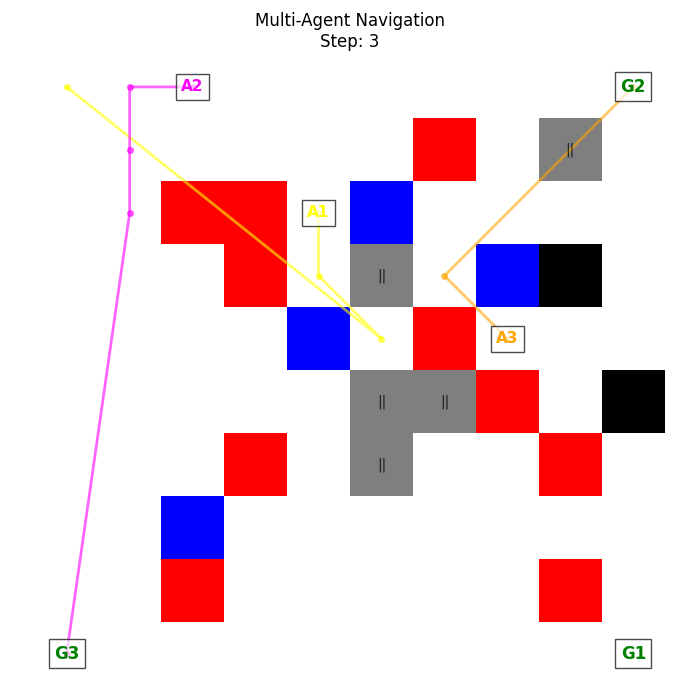
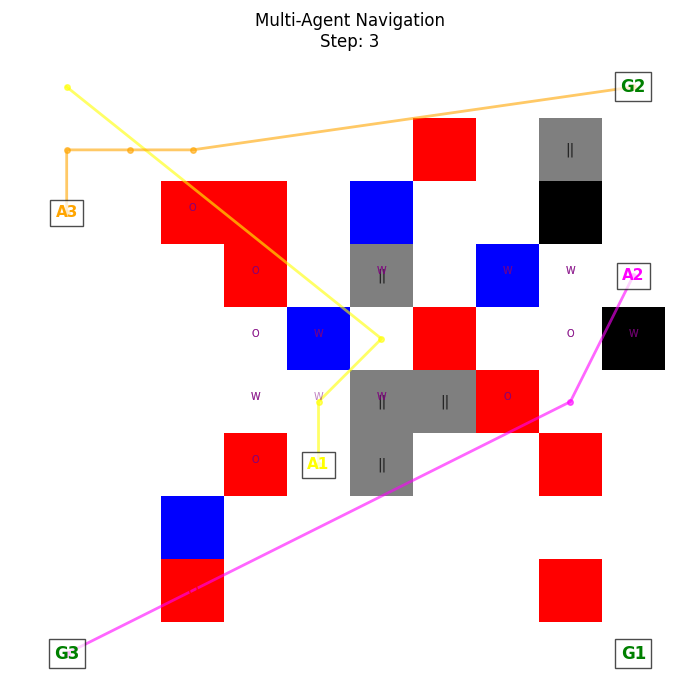
updated for multi-agent

diff --git a/illuminastick_sim_parameterized.py b/illuminastick_sim_parameterized.py
@@ -2,13 +2,22 @@ import random
 import time
 import os
 import logging
-import matplotlib.pyplot as plt
-import numpy as np
 import json
 import argparse
+import numpy as np
+from collections import defaultdict
+
+try:
+    import tkinter as tk
+    from tkinter import messagebox
+    TK_AVAILABLE = True
+except ImportError:
+    TK_AVAILABLE = False
+
+import matplotlib.pyplot as plt
 import imageio.v2 as imageio
 
-# ========= HELPERS FOR PATHS =========
+# ========== PATH HELPERS ==========
 def find_file(filename, search_dirs=[".", "config", "data"]):
     for d in search_dirs:
         candidate = os.path.join(d, filename)
@@ -16,11 +25,9 @@ def find_file(filename, search_dirs=[".", "config", "data"]):
             return candidate
     return filename
 
-# ====== BLE LOCALIZATION (Simulated Real Update) ======
+# ========== BLE LOCALIZATION ==========
 def get_ble_location(agent_id, env, step, override_every=12):
-    """Random BLE fix: Every N steps, returns a random (legal) cell."""
     if step % override_every == 0:
-        # Only choose empty non-obstacle, non-wall cell
         empty_cells = [
             (x, y)
             for x in range(env.size)
@@ -33,7 +40,7 @@ def get_ble_location(agent_id, env, step, override_every=12):
             return pos
     return None
 
-# ====== CONFIG/ARGUMENTS ======
+# ========== CONFIG ==========
 def load_config():
     parser = argparse.ArgumentParser(description="Multi-Agent Navigation Simulator")
     parser.add_argument('--config', type=str, default="config/config.json", help="JSON config file")
@@ -50,6 +57,7 @@ def load_config():
     parser.add_argument('--share_every', type=int, default=1, help="Agents share knowledge every N steps")
     parser.add_argument('--init_states', type=str, default="data/initial_states.json", help="Initial agent states JSON (optional)")
     parser.add_argument('--belief_view', action='store_true', help="Show explicit agent belief maps")
+    parser.add_argument('--gui', action='store_true', help="Use Tkinter GUI if available")
     args = parser.parse_args()
     config_path = find_file(args.config)
     if os.path.exists(config_path):
@@ -61,7 +69,7 @@ def load_config():
 
 args = load_config()
 
-# ====== ENVIRONMENT ======
+# ========== ENVIRONMENT ==========
 class Environment:
     def __init__(self, size, obstacles, wet_floors, walls=None, moving_obstacles=None):
         self.size = int(size)
@@ -69,32 +77,22 @@ class Environment:
         self.wet_floors = set(map(tuple, wet_floors))
         self.walls = set(map(tuple, walls)) if walls else set()
         self.moving_obstacles = set(map(tuple, moving_obstacles)) if moving_obstacles else set()
-
-    def is_obstacle(self, pos):
-        return pos in self.obstacles or pos in self.moving_obstacles
-
-    def is_wet(self, pos):
-        return pos in self.wet_floors
-
-    def is_wall(self, pos):
-        return pos in self.walls
-
+    def is_obstacle(self, pos): return pos in self.obstacles or pos in self.moving_obstacles
+    def is_wet(self, pos): return pos in self.wet_floors
+    def is_wall(self, pos): return pos in self.walls
     def is_within(self, pos):
         x, y = pos
         return 0 <= x < self.size and 0 <= y < self.size
-
     def update_moving_obstacles(self):
         updated = set()
         for pos in self.moving_obstacles:
             choices = [(pos[0]+dx, pos[1]+dy) for dx,dy in [(-1,0),(1,0),(0,-1),(0,1)]]
             valid = [c for c in choices if self.is_within(c) and c not in self.obstacles and c not in self.wet_floors and c not in self.walls]
-            if valid:
-                updated.add(random.choice(valid))
-            else:
-                updated.add(pos)
+            if valid: updated.add(random.choice(valid))
+            else: updated.add(pos)
         self.moving_obstacles = updated
 
-# ====== KNOWLEDGE BASE ======
+# ========== KNOWLEDGE BASE ==========
 class KnowledgeBase:
     def __init__(self, start, goal):
         self.data = {
@@ -105,7 +103,7 @@ class KnowledgeBase:
             'walls': set(),
             'uncertainty': {},
             'last_update': 0,
-            'status_flags': {'uncertainty': False, 'sensor_error': False},
+            'status_flags': {'uncertainty': False, 'sensor_error': False, 'stuck': False},
             'belief_map': {}  # For ontological/logic inference
         }
     def update(self, observation):
@@ -120,25 +118,30 @@ class KnowledgeBase:
     def flag_uncertainty(self, msg):
         self.data['status_flags']['uncertainty'] = True
         self.data['uncertainty'][time.time()] = msg
-        # Emergency alert stub/log
         with open("logs/emergency_alerts.log", "a") as f:
             f.write(f"[ALERT {time.time()}] {msg}\n")
     def clear_flags(self):
-        self.data['status_flags'] = {'uncertainty': False, 'sensor_error': False}
+        self.data['status_flags'] = {'uncertainty': False, 'sensor_error': False, 'stuck': False}
 
-# ====== SENSOR MODEL with ADAPTATION/LEARNING ======
+# ========== SENSOR MODEL WITH FAILURES ==========
 class Sensors:
-    def __init__(self, env, kb, noise=0.18):
+    def __init__(self, env, kb, noise=0.18, sensor_fail_prob=0.07):
         self.env = env
         self.kb = kb
         self.noise = noise
         self.step_counter = 0
+        self.sensor_fail_prob = sensor_fail_prob
     def sense(self, pos):
         self.step_counter += 1
         # Sensor adapts/learns as steps increase (becomes more reliable)
         if self.step_counter % 14 == 0 and self.noise > 0.06:
             self.noise -= 0.03
             print(f"[Sensor Adaptation] Sensor noise decreased to {self.noise:.2f}")
+        # Failure: No reading this step
+        if random.random() < self.sensor_fail_prob:
+            print(f"[Sensor Failure] Agent sensor failed at {pos}!")
+            self.kb.data['status_flags']['sensor_error'] = True
+            return {'obstacles': set(), 'wet_floors': set(), 'walls': set(), 'user_position': pos}
         observations = {'obstacles': set(), 'wet_floors': set(), 'walls': set(), 'user_position': pos}
         for dx in [-1,0,1]:
             for dy in [-1,0,1]:
@@ -161,10 +164,11 @@ class Sensors:
                             observations['walls'].add(neighbor)
         return observations
     def adapt_sensor(self, new_noise):
-        self.noise = new_noise  # Simulate learning/adaptation
+        self.noise = new_noise
 
-# ====== AGENT COMMUNICATION ======
+# ========== AGENT COMMUNICATION & BASIC COORDINATION ==========
 def communicate(kb_list):
+    # share hazards and status, simple help request if stuck
     for i, kba in enumerate(kb_list):
         for j, kbb in enumerate(kb_list):
             if i != j:
@@ -172,15 +176,19 @@ def communicate(kb_list):
                 kbb.data['wet_floors'].update(kba.data['wet_floors'])
                 kbb.data['walls'].update(kba.data['walls'])
                 kbb.data['belief_map'].update(kba.data.get('belief_map', {}))
+            # Help coordination: if an agent is stuck, others "notice"
+            if kba.data['status_flags'].get('stuck'):
+                kbb.data['status_flags']['help_neighbor'] = True
 
-# ====== RL AGENT TEMPLATE ======
+# ========== RL AGENT TEMPLATE ==========
 class RLAgent:
     def __init__(self, agent_id):
         self.agent_id = agent_id
     def choose_action(self, kb, available_moves, goal):
+        # You can implement Q-table or DQN here
         return random.choice(available_moves) if available_moves else None
 
-# ====== PLANNER (A*) ======
+# ========== PLANNER (A*) ==========
 class Planner:
     def __init__(self, kb, env):
         self.kb = kb
@@ -200,8 +208,7 @@ class Planner:
             if node == goal:
                 self.current_plan = path + [node]
                 return
-            if node in visited:
-                continue
+            if node in visited: continue
             visited.add(node)
             for dx, dy in [(-1,0),(1,0),(0,-1),(0,1)]:
                 neighbor = (node[0]+dx, node[1]+dy)
@@ -239,6 +246,33 @@ def choose_agent_color(i):
     colors = ['yellow', 'magenta', 'orange', 'cyan', 'lime', 'pink']
     return colors[i % len(colors)]
 
+# ========== PERFORMANCE METRICS ==========
+def init_metrics(num_agents):
+    return {
+        'steps_taken': [0 for _ in range(num_agents)],
+        'hazard_hits': [0 for _ in range(num_agents)],
+        'sensor_failures': [0 for _ in range(num_agents)],
+        'actuator_failures': [0 for _ in range(num_agents)],
+        'stuck_events': [0 for _ in range(num_agents)],
+        'ontology_agreement_steps': 0
+    }
+
+def print_metrics(metrics, num_agents):
+    print("\n--- Performance Metrics ---")
+    for i in range(num_agents):
+        print(f"Agent {i+1}: steps={metrics['steps_taken'][i]}, hazards_hit={metrics['hazard_hits'][i]}, sensor_fails={metrics['sensor_failures'][i]}, actuator_fails={metrics['actuator_failures'][i]}, stuck={metrics['stuck_events'][i]}")
+    print(f"Total steps with ontology agreement: {metrics['ontology_agreement_steps']}")
+
+# ========== ONTOLOGY-BASED INFERENCE ==========
+def run_ontology_inference(kbs, step, metrics):
+    all_beliefs = [set(kb.data['belief_map'].keys()) for kb in kbs]
+    if not all_beliefs: return
+    intersection = set.intersection(*all_beliefs)
+    if intersection:
+        metrics['ontology_agreement_steps'] += 1
+        print(f"\n[Ontology] Step {step}: All agents believe these cells are hazardous: {sorted(intersection)}\n")
+
+# ========== DRAW GRID (Matplotlib fallback) ==========
 def draw_grid(agent_positions, agent_goals, obstacles, wet_floors, walls, moving_obstacles, size, step, path_histories=None, save_dir=None, kb_list=None, show_belief=False):
     grid = np.ones((size, size, 3), dtype=float)
     for (x, y) in obstacles: grid[x, y] = [1, 0, 0]
@@ -281,17 +315,55 @@ def draw_grid(agent_positions, agent_goals, obstacles, wet_floors, walls, moving
     if save_dir is not None:
         plt.savefig(f"{save_dir}/frame_{step:03d}.png")
 
-# ====== ONTOLOGY-BASED INFERENCE (Simple Logic) ======
-def run_ontology_inference(kbs, step):
-    # Example: Find cells all agents believe are hazardous (any hazard type)
-    all_beliefs = [set(kb.data['belief_map'].keys()) for kb in kbs]
-    if not all_beliefs:
-        return
-    # Cells believed hazardous by all agents
-    intersection = set.intersection(*all_beliefs)
-    if intersection:
-        print(f"\n[Ontology] Step {step}: All agents believe these cells are hazardous: {sorted(intersection)}\n")
+# ========== OPTIONAL TKINTER GUI ==========
+class IlluminastickGUI:
+    def __init__(self, env, agent_positions, agent_goals, path_histories, size):
+        self.env = env
+        self.size = size
+        self.agent_positions = agent_positions
+        self.agent_goals = agent_goals
+        self.path_histories = path_histories
+        self.root = tk.Tk()
+        self.root.title("Illuminastick Simulator")
+        self.cell = 40
+        self.canvas = tk.Canvas(self.root, width=size*self.cell, height=size*self.cell)
+        self.canvas.pack()
+        self._draw_grid()
+        self.running = True
+        self.root.after(100, self._loop)
+        self.root.mainloop()
+    def _draw_grid(self):
+        self.canvas.delete("all")
+        # Draw cells
+        for i in range(self.size):
+            for j in range(self.size):
+                x0 = j*self.cell
+                y0 = i*self.cell
+                x1 = x0 + self.cell
+                y1 = y0 + self.cell
+                fill = "white"
+                if (i, j) in self.env.obstacles: fill = "red"
+                elif (i, j) in self.env.wet_floors: fill = "blue"
+                elif (i, j) in self.env.walls: fill = "gray"
+                elif (i, j) in self.env.moving_obstacles: fill = "black"
+                self.canvas.create_rectangle(x0, y0, x1, y1, fill=fill)
+        # Draw agents and goals
+        for idx, pos in enumerate(self.agent_positions):
+            x = pos[1]*self.cell + self.cell//2
+            y = pos[0]*self.cell + self.cell//2
+            self.canvas.create_oval(x-10, y-10, x+10, y+10, fill=choose_agent_color(idx))
+            self.canvas.create_text(x, y, text=f"A{idx+1}", fill="black")
+        for idx, pos in enumerate(self.agent_goals):
+            x = pos[1]*self.cell + self.cell//2
+            y = pos[0]*self.cell + self.cell//2
+            self.canvas.create_text(x, y, text=f"G{idx+1}", fill="green")
 
+    def _loop(self):
+        if self.running:
+            self._draw_grid()
+            self.root.after(200, self._loop)
+
+# ========== MAIN SIMULATION ==========
 def main():
     logs_dir = "logs"
     frames_dir = "frames"
@@ -388,11 +460,21 @@ def main():
             policies.append(None)
         path_histories.append([agent_starts[i]])
 
+    metrics = init_metrics(num_agents)
+
+    # Choose visualization method
+    use_gui = getattr(args, "gui", False) and TK_AVAILABLE
+    if use_gui:
+        IlluminastickGUI(env, [kb.data['user_position'] for kb in kbs], agent_goals, path_histories, int(args.size))
+        # If GUI runs, exit after mainloop
+        return
+
     plt.ion()
     plt.figure(figsize=(7,7))
     print("\n--- Multi-Agent Navigation Start ---\n")
     done = [False for _ in range(num_agents)]
     steps = 0
+    action_fail_prob = 0.06  # 6% actuator failure
     while not all(done) and steps < int(args.max_steps):
         env.update_moving_obstacles()
         draw_grid(
@@ -409,11 +491,10 @@ def main():
             kb_list=[kb.data for kb in kbs],
             show_belief=args.belief_view
         )
-        run_ontology_inference(kbs, steps)  # Ontology & Inference step
+        run_ontology_inference(kbs, steps, metrics)  # Ontology & Inference step
 
         for i, kb in enumerate(kbs):
             kb_histories[i].append({"step": steps, "kb": serialize_kb(kb.data)})
-
         if int(args.share_every) > 0 and steps % int(args.share_every) == 0:
             communicate(kbs)
 
@@ -438,17 +519,32 @@ def main():
                 next_pos = policies[i].choose_action(kbs[i].data, available_moves, goal)
             else:
                 next_pos = planner.next_action(current=pos)
+
+            # Actuator failure
+            if random.random() < action_fail_prob:
+                print(f"[Actuator Failure] Agent {i+1} failed to move (stuck at {pos})!")
+                kbs[i].data['status_flags']['stuck'] = True
+                metrics['actuator_failures'][i] += 1
+                metrics['stuck_events'][i] += 1
+                continue
+            kbs[i].data['status_flags']['stuck'] = False
+
             if next_pos is None or next_pos == pos:
                 done[i] = True
                 continue
+
             obs = sensors_list[i].sense(next_pos)
             kbs[i].update(obs)
+            if kbs[i].data['status_flags'].get('sensor_error', False):
+                metrics['sensor_failures'][i] += 1
             if next_pos in kbs[i].data['obstacles'] or next_pos in kbs[i].data['wet_floors'] or next_pos in kbs[i].data['walls']:
                 kbs[i].flag_uncertainty("Hazard/wall encountered! Replanning.")
                 planners[i].plan_to_goal(start_override=pos)
+                metrics['hazard_hits'][i] += 1
                 continue
             kbs[i].data['user_position'] = next_pos
             path_histories[i].append(next_pos)
+            metrics['steps_taken'][i] += 1
             _ = reward_fn(next_pos, goal, kbs[i].data)
             if next_pos == goal:
                 done[i] = True
@@ -468,7 +564,7 @@ def main():
             for snap in kb_histories[i]:
                 json.dump(snap, f)
                 f.write("\n")
-
+    print_metrics(metrics, num_agents)
     if args.make_gif:
         print("\n[INFO] Assembling simulation.gif from frames/ ...")
         images = []
